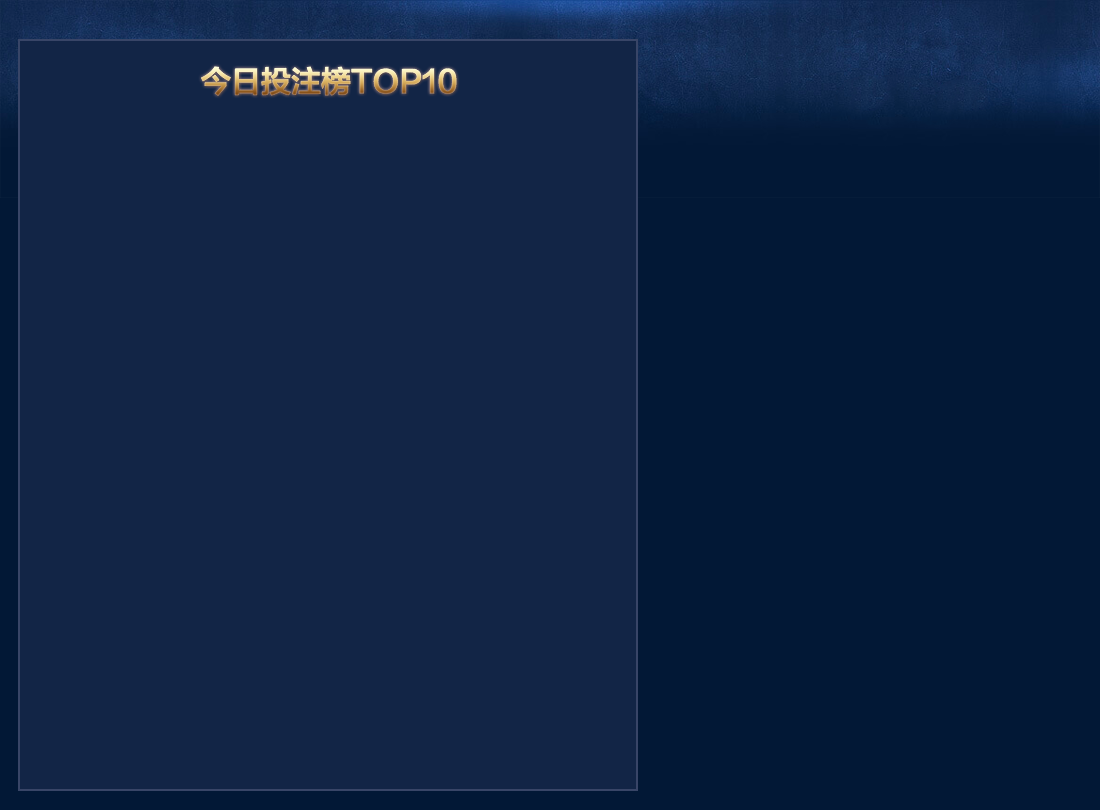
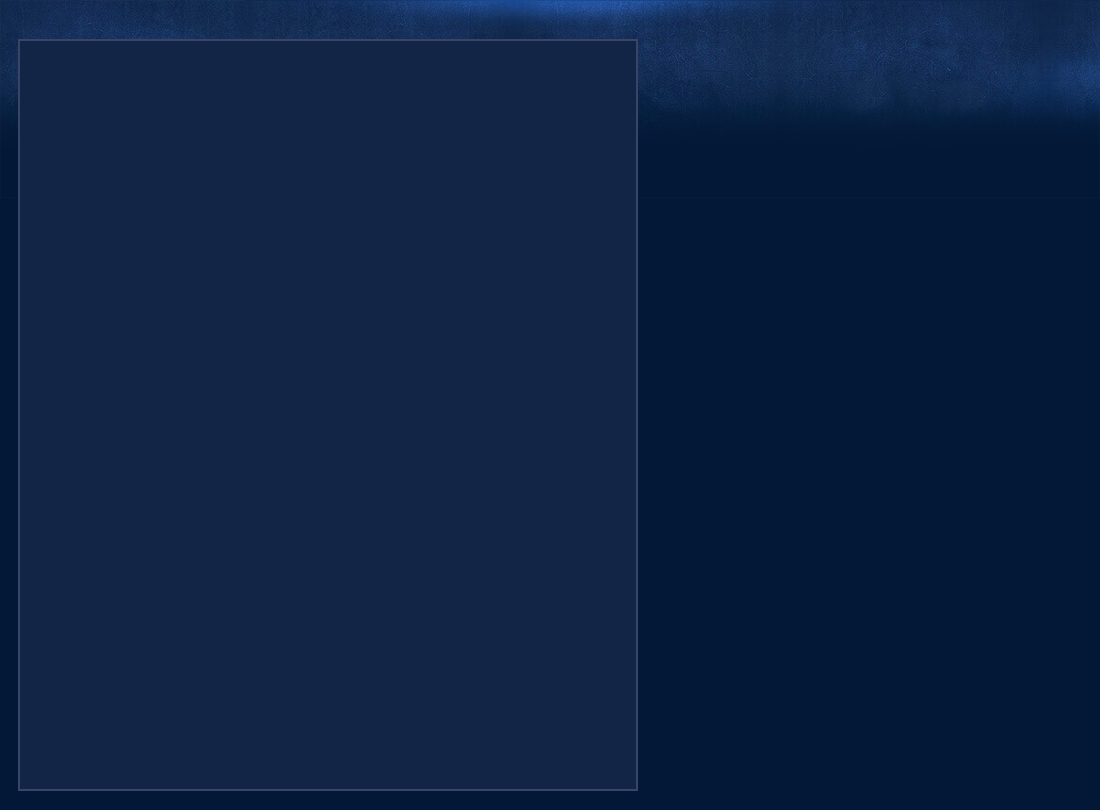
merge

Changed region(s): [[0.1855, 0.0617, 0.4327, 0.1235]]

diff --git a/src/apps/main/activity/arena/index.vue b/src/apps/main/activity/arena/index.vue
@@ -29,6 +29,7 @@
         <div class="daily-content">
           <div class="daily-table-wrapper">
             <div class="daily-top">
+              <div class="daily-top-title" :class="[currentTop === 1 ? 'today' : 'yesterday']"></div>
               <div class="daily-left" @click="toggleTop(0)" v-show="currentTop === 1">
                 <span class="arrow"></span>
                 昨日排行
@@ -88,7 +89,14 @@
                   <img :src="userAvatar" class="user-avatar"/>
                 </div>
                 <div class="top-unit-right">
-                  <div class="top-unit-cell">我的排名：NO.{{userPrize.ranking}}</div>
+                  <div class="top-unit-cell">我的排名：
+                    <template v-if="userPrize.ranking">
+                      NO.{{userPrize.ranking}}
+                    </template>
+                    <template v-else>
+                      无排行
+                    </template>
+                    </div>
                   <div class="top-unit-cell">中奖金额：<span class="point-money">{{userPrize.amount | fixedCounvert2yuan}}</span>元</div>
                 </div>
               </div>
@@ -149,53 +157,86 @@
                   </template>
                 </div>
               </div>
-              <div class="flex-body flex-row">
-                <div class="flex-td" style="width: 98px">29</div>
-                <div class="flex-td" style="width: 136px">polo</div>
-                <div class="flex-td" style="width: 136px">1620.000</div>
-                <div class="flex-td" style="width: 136px"><span class="point-money">1563.000</span></div>
-              </div>
             </div>
             <div class="flex-table table-right">
               <div class="flex-title flex-row">
+                <div class="flex-td" style="flex: 0 0 98px">排名</div>
+                <div class="flex-td" style="flex: 0 0 136px">用户名</div>
                 <div class="flex-td" style="flex: 0 0 136px">周日投注额</div>
+
+                <div class="flex-td" style="flex: 0 0 98px">排名</div>
+                <div class="flex-td" style="flex: 0 0 136px">用户名</div>
                 <div class="flex-td" style="flex: 0 0 136px">周六投注额</div>
+
+                <div class="flex-td" style="flex: 0 0 98px">排名</div>
+                <div class="flex-td" style="flex: 0 0 136px">用户名</div>
                 <div class="flex-td" style="flex: 0 0 136px">周五投注额</div>
+
+                <div class="flex-td" style="flex: 0 0 98px">排名</div>
+                <div class="flex-td" style="flex: 0 0 136px">用户名</div>
                 <div class="flex-td" style="flex: 0 0 136px">周四投注额</div>
+
+                <div class="flex-td" style="flex: 0 0 98px">排名</div>
+                <div class="flex-td" style="flex: 0 0 136px">用户名</div>
                 <div class="flex-td" style="flex: 0 0 136px">周三投注额</div>
+
+                <div class="flex-td" style="flex: 0 0 98px">排名</div>
+                <div class="flex-td" style="flex: 0 0 136px">用户名</div>
                 <div class="flex-td" style="flex: 0 0 136px">周二投注额</div>
+
+                <div class="flex-td" style="flex: 0 0 98px">排名</div>
+                <div class="flex-td" style="flex: 0 0 136px">用户名</div>
                 <div class="flex-td" style="flex: 0 0 136px">周一投注额</div>
               </div>
-              <div class="flex-body flex-row" v-for="i in 10">
-                <div class="flex-td" style="flex: 0 0 136px">
-                  <!--<template v-if="">-->
-                  <!---->
-                  <!--</template>-->
-                  <!--<template v-else>-->
-                  <!---->
-                  <!--</template>-->
-                </div>
-                <div class="flex-td" style="flex: 0 0 136px">15620.000</div>
-                <div class="flex-td" style="flex: 0 0 136px">15620.000</div>
-                <div class="flex-td" style="flex: 0 0 136px">15620.000</div>
-                <div class="flex-td" style="flex: 0 0 136px">15620.000</div>
-                <div class="flex-td" style="flex: 0 0 136px">15620.000</div>
-                <div class="flex-td" style="flex: 0 0 136px">
-                  <span class="no-val"></span>
-                  <span class="no-val"></span>
-                </div>
+              <div class="flex-body flex-row" v-for="weekUserInfo in formatWeeklyTop10Right">
+                <template v-for="userInfo in weekUserInfo">
+                  <div class="flex-td" style="flex: 0 0 98px">
+                    <template v-if="!userInfo.ranking">
+                      <span class="no-val"></span>
+                      <span class="no-val"></span>
+                    </template>
+                    <template v-else-if="userInfo.ranking > 3">{{userInfo.ranking}}</template>
+                    <template v-else>
+                      <span :class="`top-${userInfo.ranking}`"></span>
+                    </template>
+                  </div>
+
+                  <div class="flex-td" style="flex: 0 0 136px">
+                    <template v-if="userInfo.userName">
+                      {{userInfo.userName}}
+                    </template>
+                    <template v-else>
+                      <span class="no-val"></span>
+                      <span class="no-val"></span>
+                    </template>
+                  </div>
+
+                  <div class="flex-td" style="flex: 0 0 136px">
+                    <template v-if="userInfo.bet">
+                      {{userInfo.bet}}
+                    </template>
+                    <template v-else>
+                      <span class="no-val"></span>
+                      <span class="no-val"></span>
+                    </template>
+                  </div>
+                </template>
               </div>
               <div class="flex-body flex-row">
-                <div class="flex-td" style="flex: 0 0 136px">15620.000</div>
-                <div class="flex-td" style="flex: 0 0 136px">15620.000</div>
-                <div class="flex-td" style="flex: 0 0 136px">15620.000</div>
-                <div class="flex-td" style="flex: 0 0 136px">15620.000</div>
-                <div class="flex-td" style="flex: 0 0 136px">15620.000</div>
-                <div class="flex-td" style="flex: 0 0 136px">15620.000</div>
-                <div class="flex-td" style="flex: 0 0 136px">
-                  <span class="no-val"></span>
-                  <span class="no-val"></span>
-                </div>
+                <template v-for="i in 7">
+                  <div class="flex-td" style="flex: 0 0 98px">
+                    <span class="no-val"></span>
+                    <span class="no-val"></span>
+                  </div>
+                  <div class="flex-td" style="flex: 0 0 136px">
+                    <span class="no-val"></span>
+                    <span class="no-val"></span>
+                  </div>
+                  <div class="flex-td" style="flex: 0 0 136px">
+                    <span class="no-val"></span>
+                    <span class="no-val"></span>
+                  </div>
+                </template>
               </div>
             </div>
           </div>
@@ -206,14 +247,20 @@
         <div class="rule-title" ref="ruleTitle"></div>
         <ul class="rules">
           <li class="rule">
-            本期参与擂台的彩种包括：无限秒秒彩、QQ30秒、无限分分彩、11选5分分彩、无限三分彩、韩国乐透1.5、东京1.5分彩、新加坡2分彩！<br>
-            以上8个彩种每天综合的投注额将作为活动条件；
+            本期参与擂台的彩种包括：
+            <template v-for="(ticketInfo, index) in formatTicketList">
+              {{ticketInfo.info.zhName}}
+              <template v-if="formatTicketList.length !== index + 1">
+                、
+              </template>
+            </template>
+            ！以上{{formatTicketList.length}}个彩种每天综合的投注额将作为活动条件；
           </li>
           <li class="rule">
-            每天在以上8个彩种中的投注额之和达到前十的用户都将登上TOP10榜单，并在次日获得对应的彩金奖励；
+            每天在以上{{formatTicketList.length}}个彩种中的投注额之和达到前十的用户都将登上TOP10榜单，并在次日获得对应的彩金奖励；
           </li>
           <li class="rule">
-            每天在这8个彩种中中奖最高的三位用户将获得额外加奖奖励，并受所有用户膜拜，获得中奖秘籍（最多中奖的投注号码）；
+            每天在这{{formatTicketList.length}}个彩种中中奖最高的三位用户将获得额外加奖奖励，并受所有用户膜拜，获得中奖秘籍（最多中奖的投注号码）；
           </li>
           <li class="rule">
             每天参与活动前都可在活动页免费领取一张您想投注的彩种的代金券，代金券金额随机发放；
@@ -309,11 +356,11 @@
         //今日昨日榜
         top10: [],
 
+        //日榜个人信息
         myInfo: {},
         myNum: 0,
         myYesterdayInfo: {},
         myYesterdayNum: 0,
-
 
         //当前秘籍
         currentCheat: {},
@@ -321,7 +368,9 @@
         currentTop: 1,
 
         getTicketModal: false,
-        getCheatModal: false
+        getCheatModal: false,
+
+        timer: null
       }
     },
 
@@ -345,26 +394,35 @@
       },
 
       formatWeeklyTop10() {
+        let formatWeeklyTop10 = []
+
         if (this.week10.week) {
-          return _.times(10, (index) => {
+          formatWeeklyTop10 = _.times(10, (index) => {
             return this.formatUserInfo(this.week10.week[index], index)
           })
-        }
-      },
-      formatWeeklyTop10Right() {
-        if (this.week10) {
-          return _.times(10, (index) => {
-            return [
-              this.getBet(this.week10.sunday, index),
-              this.getBet(this.week10.saturday, index),
-              this.getBet(this.week10.friday, index),
-              this.getBet(this.week10.thursday, index),
-              this.getBet(this.week10.wednesday, index),
-              this.getBet(this.week10.tuesday, index),
-              this.getBet(this.week10.monday, index),
-            ]
+
+          formatWeeklyTop10.push({
+            ranking: this.week10.myNum,
+            userName: this.week10.myInfo ? this.week10.myInfo.userName : '',
+            bet: this.week10.myInfo ? _.fixedConvert2yuan(this.week10.myInfo.bet) : null,
+            amount: this.week10.myInfo ? _.fixedConvert2yuan(this.week10.myInfo.amount) : null
           })
         }
+
+        return formatWeeklyTop10
+      },
+      formatWeeklyTop10Right() {
+        return _.times(10, (index) => {
+          return [
+            this.formatUserInfo((this.week10.sunday || [])[index], index),
+            this.formatUserInfo((this.week10.saturday || [])[index], index),
+            this.formatUserInfo((this.week10.friday || [])[index], index),
+            this.formatUserInfo((this.week10.thursday || [])[index], index),
+            this.formatUserInfo((this.week10.wednesday || [])[index], index),
+            this.formatUserInfo((this.week10.tuesday || [])[index], index),
+            this.formatUserInfo((this.week10.monday || [])[index], index),
+          ]
+        })
       },
       //当前投注榜
       currentTop10() {
@@ -434,10 +492,9 @@
 
       getCheat(topUser) {
         this.currentCheat = {
-          ticketName: topUser.ticketName,
+          ticketName: ticketConfig.getComplete(topUser.ticketId).info.zhName,
           playName: `${topUser.groupName}_${topUser.playName}`,
           betNum: topUser.betNum,
-          //todo 等待后端数据
           ticketId: topUser.ticketId
         }
         this.getCheatModal = true
@@ -487,6 +544,12 @@
 
       this.getWeeklyList()
 
+      this.timer = setInterval(() => {
+        this.getDailyList()
+
+        this.getWeeklyList()
+      }, 10000)
+
       getYesterdayTop3Api(({data}) => {
         if (data && data.result === 0) {
           this.yesterdayTop3 = data.root.prizeList
@@ -496,6 +559,10 @@
         }
       })
 
+    },
+
+    beforeDestroy() {
+      clearInterval(this.timer)
     }
   }
 </script>
@@ -607,6 +674,18 @@
         line-height: 75px;
         display: flex;
         position: relative;
+
+        .daily-top-title {
+          position: absolute;
+          background-image: url(./assets/prized-daily-today.png);
+          width: 262px;
+          height: 36px;
+          top: 23px;
+          left: 178px;
+          &.yesterday {
+            background-image: url(./assets/prized-daily-yesterday.png);
+          }
+        }
       }
 
       .daily-content {
@@ -634,6 +713,7 @@
           align-items: center;
           flex: 0 0 80px;
           position: absolute;
+          margin-top: 3px;
         }
 
         .arrow {
@@ -764,7 +844,9 @@
 
       .table-right {
         .flex-body {
-          background-color: #5a252b;
+          .flex-td {
+            background-color: #5a252b;
+          }
           &:last-of-type {
             .flex-td {
               background-color: #3e181b;
